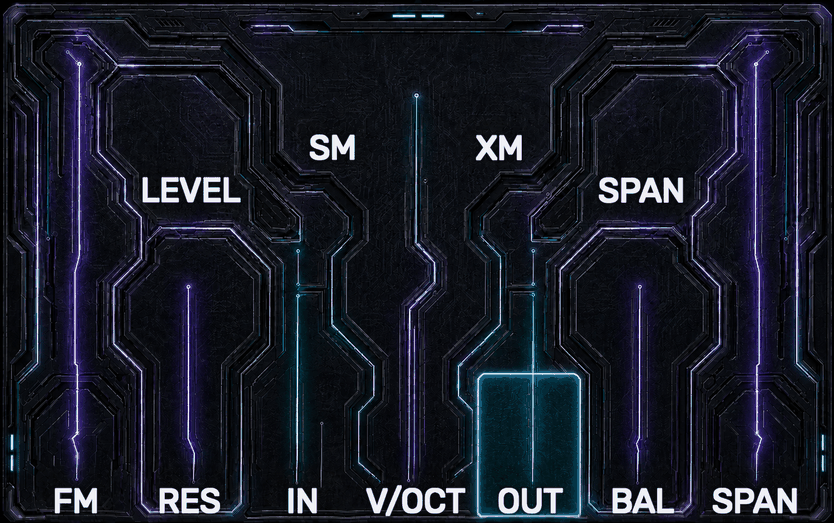
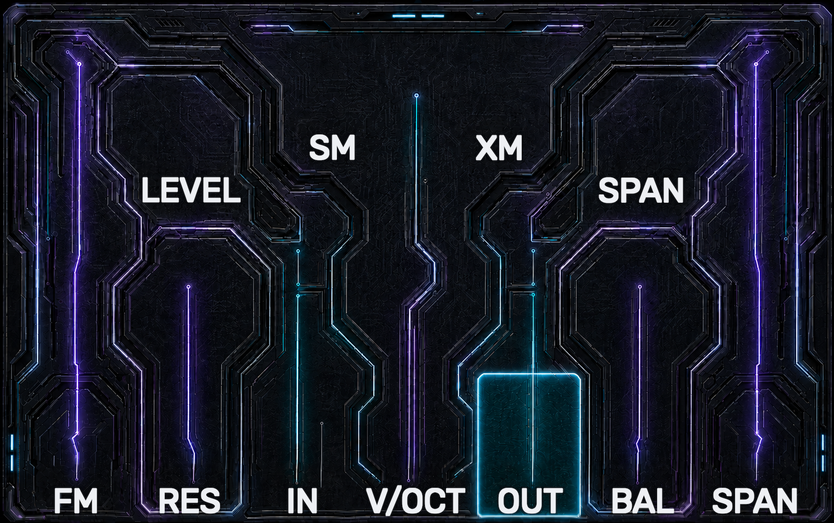
Conduit checkpoint

diff --git a/src/BifurxUI.cpp b/src/BifurxUI.cpp
@@ -3,6 +3,7 @@
 #include "BifurxWorker.hpp"
 #include "visual/VisualAssets.hpp"
 #include "visual/FractalGlassOverlay.hpp"
+#include <array>
 #include <unordered_map>
 
 namespace bifurx {
@@ -752,6 +753,152 @@ struct BifurxVisibleFramebufferWidget final : widget::FramebufferWidget {
 	}
 };
 
+struct BifurxPlasmaConduitWidget final : Widget {
+	struct Segment {
+		Vec start;
+		Vec end;
+		bool reversePalette = false;
+
+		Segment() = default;
+		Segment(Vec start, Vec end, bool reversePalette)
+			: start(start), end(end), reversePalette(reversePalette) {}
+	};
+
+	std::array<Segment, 5> segments {};
+
+	void drawSegment(const DrawArgs& args, const Segment& segment, bool dark) {
+		const NVGcolor cyan = dark
+			? nvgRGBA(28, 204, 216, 210)
+			: nvgRGBA(16, 154, 177, 205);
+		const NVGcolor violet = dark
+			? nvgRGBA(122, 92, 255, 205)
+			: nvgRGBA(91, 61, 191, 200);
+		const NVGcolor startColor = segment.reversePalette ? violet : cyan;
+		const NVGcolor endColor = segment.reversePalette ? cyan : violet;
+		const NVGpaint plasmaGradient = nvgLinearGradient(
+			args.vg,
+			segment.start.x, segment.start.y,
+			segment.end.x, segment.end.y,
+			startColor, endColor);
+		const NVGcolor brightCyan = dark
+			? nvgRGBA(178, 248, 255, 238)
+			: nvgRGBA(137, 233, 247, 222);
+		const NVGcolor brightViolet = dark
+			? nvgRGBA(213, 194, 255, 232)
+			: nvgRGBA(184, 157, 250, 218);
+		const NVGpaint coreGradient = nvgLinearGradient(
+			args.vg,
+			segment.start.x, segment.start.y,
+			segment.end.x, segment.end.y,
+			segment.reversePalette ? brightViolet : brightCyan,
+			segment.reversePalette ? brightCyan : brightViolet);
+
+		auto strokeColor = [&](float widthMm, NVGcolor color) {
+			nvgBeginPath(args.vg);
+			nvgMoveTo(args.vg, segment.start.x, segment.start.y);
+			nvgLineTo(args.vg, segment.end.x, segment.end.y);
+			nvgStrokeWidth(args.vg, mm2px(widthMm));
+			nvgLineCap(args.vg, NVG_ROUND);
+			nvgStrokeColor(args.vg, color);
+			nvgStroke(args.vg);
+		};
+		auto strokeGradient = [&](float widthMm, float alpha) {
+			nvgSave(args.vg);
+			nvgGlobalAlpha(args.vg, alpha);
+			nvgBeginPath(args.vg);
+			nvgMoveTo(args.vg, segment.start.x, segment.start.y);
+			nvgLineTo(args.vg, segment.end.x, segment.end.y);
+			nvgStrokeWidth(args.vg, mm2px(widthMm));
+			nvgLineCap(args.vg, NVG_ROUND);
+			nvgStrokePaint(args.vg, plasmaGradient);
+			nvgStroke(args.vg);
+			nvgRestore(args.vg);
+		};
+		auto strokeCoreGradient = [&](float widthMm, float alpha) {
+			nvgSave(args.vg);
+			nvgGlobalAlpha(args.vg, alpha);
+			nvgBeginPath(args.vg);
+			nvgMoveTo(args.vg, segment.start.x, segment.start.y);
+			nvgLineTo(args.vg, segment.end.x, segment.end.y);
+			nvgStrokeWidth(args.vg, mm2px(widthMm));
+			nvgLineCap(args.vg, NVG_ROUND);
+			nvgStrokePaint(args.vg, coreGradient);
+			nvgStroke(args.vg);
+			nvgRestore(args.vg);
+		};
+
+		// A layered channel reads as a physical recess at panel scale. The broad
+		// color passes imply glow without relying on an expensive blur filter.
+		strokeGradient(2.15f, dark ? 0.16f : 0.12f);
+		strokeGradient(1.55f, dark ? 0.22f : 0.17f);
+		strokeColor(1.12f, dark ? nvgRGBA(0, 2, 7, 232) : nvgRGBA(10, 14, 23, 212));
+		strokeGradient(0.74f, dark ? 0.62f : 0.54f);
+		strokeColor(0.40f, dark ? nvgRGBA(1, 5, 12, 172) : nvgRGBA(4, 9, 17, 158));
+		// Build the continuous core from broad, overlapping energy fields. The
+		// brightest pass remains wide enough that it diffuses into the surrounding
+		// color instead of resolving as a thin wire at ordinary Rack zoom levels.
+		strokeGradient(0.82f, dark ? 0.20f : 0.16f);
+		strokeCoreGradient(0.62f, dark ? 0.22f : 0.19f);
+		strokeCoreGradient(0.44f, dark ? 0.34f : 0.30f);
+		strokeCoreGradient(0.29f, dark ? 0.62f : 0.54f);
+
+		const Vec delta = segment.end.minus(segment.start);
+		const float length = std::sqrt(delta.x * delta.x + delta.y * delta.y);
+		const Vec normal = length > 1e-4f
+			? Vec(-delta.y / length, delta.x / length)
+			: Vec(1.f, 0.f);
+		auto strokeRail = [&](float offsetMm, float widthMm, NVGcolor color) {
+			const Vec offset = normal.mult(mm2px(offsetMm));
+			nvgBeginPath(args.vg);
+			nvgMoveTo(args.vg, segment.start.x + offset.x, segment.start.y + offset.y);
+			nvgLineTo(args.vg, segment.end.x + offset.x, segment.end.y + offset.y);
+			nvgStrokeWidth(args.vg, mm2px(widthMm));
+			nvgLineCap(args.vg, NVG_ROUND);
+			nvgStrokeColor(args.vg, color);
+			nvgStroke(args.vg);
+		};
+		// Opposing specular rails make the colored wall read as a glass tube
+		// instead of a single neon stroke, regardless of segment orientation.
+		strokeRail(-0.28f, 0.075f,
+			dark ? nvgRGBA(198, 248, 255, 166) : nvgRGBA(229, 255, 255, 148));
+		strokeRail(0.28f, 0.09f,
+			dark ? nvgRGBA(154, 113, 255, 158) : nvgRGBA(82, 49, 190, 142));
+
+		// A translucent glass canopy sits over the plasma. This
+		// deliberately lowers local contrast inside the tube while preserving the
+		// crisp asymmetric wall rails outside it.
+		strokeColor(0.56f,
+			dark ? nvgRGBA(154, 211, 230, 20) : nvgRGBA(224, 244, 248, 26));
+		strokeGradient(0.43f, dark ? 0.075f : 0.06f);
+
+		for (Vec center : {segment.start, segment.end}) {
+			nvgBeginPath(args.vg);
+			nvgCircle(args.vg, center.x, center.y, mm2px(0.82f));
+			nvgFillPaint(args.vg, nvgRadialGradient(
+				args.vg, center.x, center.y,
+				0.f, mm2px(0.82f),
+				nvgRGBA(124, 226, 255, dark ? 72 : 48),
+				nvgRGBA(90, 60, 210, 0)));
+			nvgFill(args.vg);
+			nvgBeginPath(args.vg);
+			nvgCircle(args.vg, center.x, center.y, mm2px(0.46f));
+			nvgStrokeWidth(args.vg, mm2px(0.08f));
+			nvgStrokeColor(args.vg,
+				dark ? nvgRGBA(181, 239, 255, 165) : nvgRGBA(75, 59, 178, 150));
+			nvgStroke(args.vg);
+		}
+	}
+
+	void draw(const DrawArgs& args) override {
+		const bool dark = settings::preferDarkPanels;
+		nvgSave(args.vg);
+		for (const Segment& segment : segments) {
+			drawSegment(args, segment, dark);
+		}
+		nvgRestore(args.vg);
+	}
+};
+
 struct BifurxWidget final : ModuleWidget {
 	widget::FramebufferWidget* spectrumNanoVG = nullptr;
 	Widget* spectrumOpenGL = nullptr;
@@ -760,6 +907,7 @@ struct BifurxWidget final : ModuleWidget {
 	Widget* modernTopRasterDark = nullptr;
 	Widget* modernBottomRaster = nullptr;
 	Widget* modernBottomRasterDark = nullptr;
+	BifurxVisibleFramebufferWidget* conduitFramebuffer = nullptr;
 	Widget* legacySvgPanel = nullptr;
 	Widget* modernPanelBorder = nullptr;
 	Widget* legacyTitleRaster = nullptr;
@@ -814,6 +962,10 @@ struct BifurxWidget final : ModuleWidget {
 		if (modernTopRasterDark) modernTopRasterDark->setVisible(!legacy && dark);
 		if (modernBottomRaster) modernBottomRaster->setVisible(!legacy && !dark);
 		if (modernBottomRasterDark) modernBottomRasterDark->setVisible(!legacy && dark);
+		if (conduitFramebuffer) {
+			conduitFramebuffer->setVisible(true);
+			conduitFramebuffer->setDirty();
+		}
 		if (modernPanelBorder) modernPanelBorder->setVisible(!legacy);
 		if (legacyTitleRaster) legacyTitleRaster->setVisible(legacy);
 		if (legacyLabels) legacyLabels->setVisible(legacy);
@@ -930,6 +1082,22 @@ struct BifurxWidget final : ModuleWidget {
 		applyPt("MODE_LEFT_PARAM", &mlP); applyPt("MODE_RIGHT_PARAM", &mrP); applyPt("LEVEL_PARAM", &lP); applyPt("RESO_PARAM", &rP); applyPt("FREQ_PARAM", &fP); applyPt("TITO_PARAM", &tP); applyPt("SPAN_PARAM", &sP); applyPt("BALANCE_PARAM", &bP); applyPt("FM_AMT_PARAM", &faP); applyPt("SPAN_CV_ATTEN_PARAM", &saP);
 		applyPt("MODE_MENU_BUTTON", &mmP);
 		applyPt("IN_INPUT", &iP); applyPt("VOCT_INPUT", &vP); applyPt("FM_INPUT", &fmP); applyPt("RESO_CV_INPUT", &rcP); applyPt("BALANCE_CV_INPUT", &bcP); applyPt("SPAN_CV_INPUT", &scP); applyPt("OUT_OUTPUT", &oP);
+		{
+			BifurxPlasmaConduitWidget* conduits = new BifurxPlasmaConduitWidget();
+			conduits->box.size = box.size;
+			conduits->segments = std::array<BifurxPlasmaConduitWidget::Segment, 5> {{
+				BifurxPlasmaConduitWidget::Segment(mm2px(fmP), mm2px(faP), false),
+				BifurxPlasmaConduitWidget::Segment(mm2px(rcP), mm2px(rP), true),
+				BifurxPlasmaConduitWidget::Segment(mm2px(vP), mm2px(fP), false),
+				BifurxPlasmaConduitWidget::Segment(mm2px(bcP), mm2px(bP), true),
+				BifurxPlasmaConduitWidget::Segment(mm2px(scP), mm2px(saP), false)
+			}};
+			conduitFramebuffer = new BifurxVisibleFramebufferWidget();
+			conduitFramebuffer->box.size = box.size;
+			conduitFramebuffer->dirtyOnSubpixelChange = false;
+			conduitFramebuffer->addChild(conduits);
+			addChild(conduitFramebuffer);
+		}
 		previewBuildTimer.setAtlasStatus(panel_svg::getAtlasStatusLabelForSvg(panelPath));
 		previewBuildTimer.markAnchorsDone();
 		auto* modeMenuButton = createParamCentered<BifurxModeMenuButton>(mm2px(mmP), module, Bifurx::MODE_MENU_PARAM);

diff --git a/tools/composite_bifurx_bottom.py b/tools/composite_bifurx_bottom.py
@@ -194,7 +194,8 @@ def build_combined(
         np.rint(combined_srgb * 255.0).astype(np.uint8), mode="RGB"
     )
     combined = combined.resize(RUNTIME_SIZE, Image.Resampling.LANCZOS)
-    combined = combined.quantize(colors=colors, method=Image.Quantize.MEDIANCUT)
+    if colors > 0:
+        combined = combined.quantize(colors=colors, method=Image.Quantize.MEDIANCUT)
     destination.parent.mkdir(parents=True, exist_ok=True)
     combined.save(destination, format="PNG", optimize=True)
     print(f"{background_path} + labels -> {destination} ({RUNTIME_SIZE[0]}x{RUNTIME_SIZE[1]})")
@@ -232,8 +233,8 @@ def main() -> int:
     parser.add_argument(
         "--colors",
         type=int,
-        default=192,
-        help="maximum indexed-PNG palette size (default: 192)",
+        default=0,
+        help="indexed-PNG palette size; 0 preserves full RGB (default: 0)",
     )
     args = parser.parse_args()
 
@@ -242,8 +243,8 @@ def main() -> int:
             parser.error(f"source asset does not exist: {source}")
     if not 1 <= args.supersample <= 8:
         parser.error("--supersample must be between 1 and 8")
-    if not 16 <= args.colors <= 256:
-        parser.error("--colors must be between 16 and 256")
+    if args.colors != 0 and not 16 <= args.colors <= 256:
+        parser.error("--colors must be 0 or between 16 and 256")
 
     mask_size = (
         SOURCE_SIZE[0] * args.supersample,
